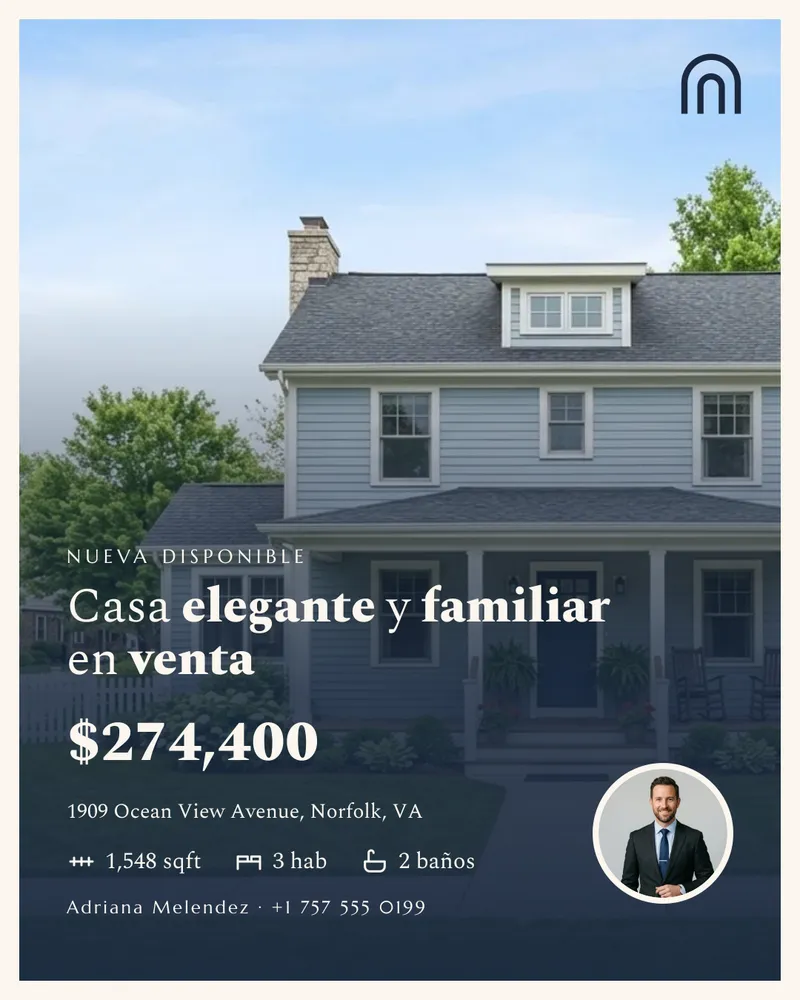
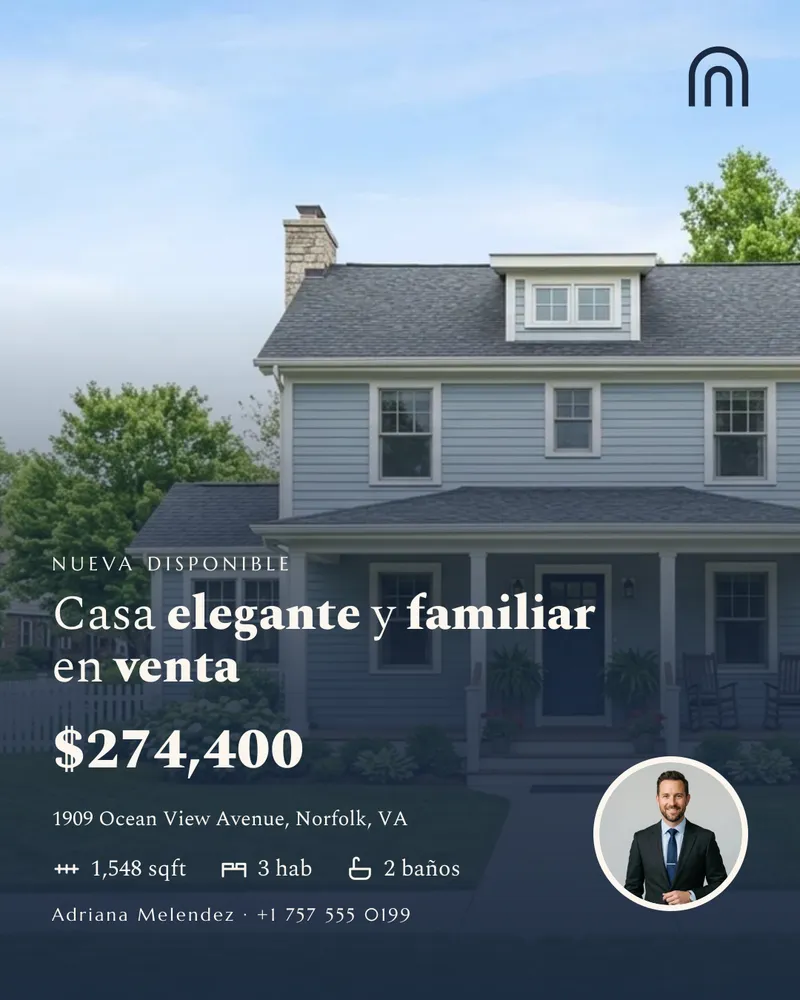
fix(studio): ajustes de color y tamano en los tres disenos
Sobre el color primario va siempre el secundario: el color de texto deja
de entrar como alternativa, que cambiaba el color de las specs sin que
nadie lo pidiera. Foto completa pierde el marco y su secundario pasa al
anillo del agente, un 10% mas grande. En Editorial el logo y la portada
del agente crecen un 15%.

El umbral de contraste baja de 3 a 2: el 3:1 de WCAG se define para
texto de 14-18 pt y aqui son 62-78 px, asi que descartaba pares
legibles como el crema sobre el verde de un tenant real.

diff --git a/src/lib/studio/templates/completa-listing.tsx b/src/lib/studio/templates/completa-listing.tsx
@@ -11,18 +11,19 @@ import type { StudioTemplate, TemplateProps } from './types'
 // colores no cambiaba nada de este diseño salvo el logo.
 //
 //   primario   → el degradado que hace legible el texto
-//   secundario → el marco que enmarca la foto
+//   secundario → el anillo de la portada del agente
 //   texto      → todo el texto
 //   logo       → el logo (lo tiñe template-props)
+//
+// La foto va A SANGRE. Hubo un marco del color secundario y se retiró: este
+// diseño existe para que UNA foto excelente ocupe el lienzo entero, y un borde
+// alrededor le quitaba justamente eso.
 
-/** Ancho del marco. Lo justo para leerse como un borde deliberado y no como un
- *  error de encuadre. */
-const FRAME = 26
+/** La portada del agente, la más grande de los tres diseños: aquí no compite
+ *  con miniaturas ni con un bloque de color. */
+const AGENT_SIZE = 209
 
 function Render(p: TemplateProps) {
-  const W = 1080 - FRAME * 2
-  const H = 1350 - FRAME * 2
-
   // El texto va sobre el degradado, que es del color primario: si el color de
   // texto elegido no se separa de él —y por defecto son el MISMO hex— la pieza
   // saldría en blanco. Se prefiere el rol pedido y se degrada solo si no se lee.
@@ -35,8 +36,8 @@ function Render(p: TemplateProps) {
     }}>
       {p.heroPhoto && (
         // eslint-disable-next-line @next/next/no-img-element -- reason: satori rasteriza a SVG
-        <img src={p.heroPhoto} width={W} height={H} alt=""
-             style={{ position: 'absolute', top: FRAME, left: FRAME, objectFit: 'cover' }} />
+        <img src={p.heroPhoto} width={1080} height={1350} alt=""
+             style={{ position: 'absolute', top: 0, left: 0, objectFit: 'cover' }} />
       )}
 
       {/* Degradado: lo que hace legible el texto sobre una foto que nadie
@@ -45,17 +46,17 @@ function Render(p: TemplateProps) {
           42% el titular caía sobre la parte clara de la fachada y se perdía.
           El color es el primario del tenant, no negro. */}
       <div style={{
-        display: 'flex', position: 'absolute', top: FRAME, left: FRAME, width: W, height: H,
+        display: 'flex', position: 'absolute', top: 0, left: 0, width: 1080, height: 1350,
         backgroundImage: `linear-gradient(to bottom, ${rgba(p.palette.brand, 0)} 28%, ${rgba(p.palette.brand, 0.55)} 52%, ${rgba(p.palette.brand, 0.85)} 70%, ${rgba(p.palette.brand, 0.97)} 100%)`,
       }} />
 
       {p.logo && (
         // eslint-disable-next-line @next/next/no-img-element -- reason: ídem
         <img src={p.logo} width={120} height={120} alt=""
-             style={{ position: 'absolute', top: 60, right: 60, objectFit: 'contain' }} />
+             style={{ position: 'absolute', top: 50, right: 50, objectFit: 'contain' }} />
       )}
 
-      <div style={{ display: 'flex', flexDirection: 'column', position: 'absolute', bottom: 110, left: 90, width: 800 }}>
+      <div style={{ display: 'flex', flexDirection: 'column', position: 'absolute', bottom: 100, left: 70, width: 800 }}>
         <Badge text={p.badge} color={ink} />
         <div style={{ display: 'flex', marginTop: 16 }}>
           <Headline text={p.headline} color={ink} size={66} />
@@ -78,9 +79,9 @@ function Render(p: TemplateProps) {
         )}
       </div>
 
-      {/* El anillo es del color del marco: la portada del agente y el borde de la
-          pieza son la misma pieza de diseño. */}
-      {p.agentPhoto && <AgentBadge src={p.agentPhoto} size={190} ring={p.palette.surface} right={90} bottom={130} />}
+      {/* El anillo es lo que pinta el color secundario en este diseño: es el
+          único borde que queda, y el que separa la cara del agente del fondo. */}
+      {p.agentPhoto && <AgentBadge src={p.agentPhoto} size={AGENT_SIZE} ring={p.palette.surface} right={70} bottom={120} />}
     </div>
   )
 }

diff --git a/src/lib/studio/templates/editorial-listing.tsx b/src/lib/studio/templates/editorial-listing.tsx
@@ -22,10 +22,17 @@ const PHOTO_H  = 560   // a sangre, sin márgenes ni sombra
 const INFO_Y   = 990   // dirección y specs, sobre el fondo claro
 const BAND_H   = 120   // pie de marca
 
+// Logo y portada del agente son las dos marcas de identidad de la pieza y
+// estaban pidiendo presencia: ambos un 15% por encima de lo que medían.
+const LOGO_SIZE  = 120
+const AGENT_SIZE = 230
+
 function Render(p: TemplateProps) {
-  // Lo que va sobre el bloque de color: el secundario, y si no se separa del
-  // primario, el color de texto. Ver readableOn.
-  const onBrand = readableOn(p.palette.brand, p.palette.surface, p.palette.ink)
+  // Etiqueta, titular, cifra, agente y teléfono: SIEMPRE el color secundario.
+  // El color de texto no entra como alternativa —ese rol es para el fondo
+  // claro—; la única salida es blanco o negro, y solo si el secundario no se
+  // lee sobre el primario. Ver readableOn.
+  const onBrand = readableOn(p.palette.brand, p.palette.surface)
 
   return (
     <div style={{ display: 'flex', flexDirection: 'column', width: 1080, height: 1350, backgroundColor: p.palette.surface, position: 'relative' }}>
@@ -73,7 +80,7 @@ function Render(p: TemplateProps) {
 
         {p.logo && (
           // eslint-disable-next-line @next/next/no-img-element -- reason: ídem
-          <img src={p.logo} width={104} height={104} alt="" style={{ objectFit: 'contain' }} />
+          <img src={p.logo} width={LOGO_SIZE} height={LOGO_SIZE} alt="" style={{ objectFit: 'contain' }} />
         )}
       </div>
 
@@ -87,7 +94,7 @@ function Render(p: TemplateProps) {
           foto: es el único punto de la pieza donde sobra espacio a la derecha, y
           la saca del rincón de abajo donde competía con el logo. */}
       {p.agentPhoto && (
-        <AgentBadge src={p.agentPhoto} size={200} ring={p.palette.surface} right={70} bottom={1350 - (PHOTO_Y + 100)} />
+        <AgentBadge src={p.agentPhoto} size={AGENT_SIZE} ring={p.palette.surface} right={70} bottom={1350 - (PHOTO_Y + AGENT_SIZE / 2)} />
       )}
     </div>
   )

diff --git a/tests/studio/palettes.test.ts b/tests/studio/palettes.test.ts
@@ -26,9 +26,29 @@ describe('readableOn', () => {
 
   it('ningún preset deja texto ilegible sobre su color primario', () => {
     for (const preset of [tenantPreset('#00BD1F'), ...PALETTE_PRESETS]) {
-      const color = readableOn(preset.palette.brand, preset.palette.surface, preset.palette.ink)
-      expect(contrastRatio(preset.palette.brand, color)).toBeGreaterThanOrEqual(3)
+      // Misma llamada que hacen Mosaico y Editorial: sobre el color primario va
+      // el secundario, sin el color de texto como alternativa.
+      const color = readableOn(preset.palette.brand, preset.palette.surface)
+      expect(color).toBe(preset.palette.surface)
+      expect(contrastRatio(preset.palette.brand, color)).toBeGreaterThanOrEqual(2)
     }
+  })
+
+  it('conserva el secundario del tenant aunque el contraste sea el justo', () => {
+    // El verde de un tenant real contra el crema da 2,30: legible a 62 px y
+    // por debajo del 3:1 de WCAG. Cambiarlo por blanco sería pisarle el color
+    // que eligió sin que nada estuviera roto.
+    const verde = tenantPreset('#00BD1F').palette
+    expect(contrastRatio(verde.brand, verde.surface)).toBeLessThan(3)
+    expect(readableOn(verde.brand, verde.surface)).toBe(verde.surface)
+  })
+
+  it('sin alternativas cae a blanco o negro, nunca a otro rol', () => {
+    // Es lo que sostiene "el secundario, no el color de texto": si el
+    // secundario no se lee, la salida es un neutro — no se cuela otro rol de la
+    // paleta cambiando el color que el usuario eligió.
+    expect(readableOn('#1B2A41', '#22304A')).toBe('#FFFFFF')
+    expect(readableOn('#FBF6EE', '#F2EDE4')).toBe('#000000')
   })
 })
 

diff --git a/src/lib/studio/templates/mosaico-listing.tsx b/src/lib/studio/templates/mosaico-listing.tsx
@@ -7,10 +7,16 @@ import type { StudioTemplate, TemplateProps } from './types'
 // la cifra. Luce cuando el agente tiene sesión fotográfica completa.
 
 function Render(p: TemplateProps) {
+  // Lo que va sobre las bandas es SIEMPRE el color secundario. El color de
+  // texto no entra como alternativa: es el rol del texto sobre el fondo claro,
+  // y colarlo aquí cambiaba el color de las specs sin que nadie lo pidiera.
+  // La única salida es blanco o negro, y solo si el secundario no se lee sobre
+  // el primario — una paleta que nadie querría publicar.
+  //
   // Las dos bandas son de colores distintos (la de abajo es el primario
-  // oscurecido), así que el color legible se calcula para cada una.
-  const onBrand = readableOn(p.palette.brand, p.palette.surface, p.palette.ink)
-  const onDark  = readableOn(darken(p.palette.brand), p.palette.surface, p.palette.ink)
+  // oscurecido), así que se resuelve para cada una.
+  const onBrand = readableOn(p.palette.brand, p.palette.surface)
+  const onDark  = readableOn(darken(p.palette.brand), p.palette.surface)
 
   return (
     <div style={{ display: 'flex', flexDirection: 'column', width: 1080, height: 1350, backgroundColor: p.palette.surface, position: 'relative' }}>

diff --git a/src/lib/studio/palettes.ts b/src/lib/studio/palettes.ts
@@ -129,9 +129,20 @@ export function contrastRatio(a: string, b: string): number {
   return (Math.max(la, lb) + 0.05) / (Math.min(la, lb) + 0.05)
 }
 
-/** Por debajo de esto el texto deja de leerse. 3:1 es el mínimo de WCAG para
- *  texto grande, que es todo lo que estos diseños ponen sobre un color. */
-const MIN_CONTRAST = 3
+/**
+ * Por debajo de esto el texto deja de leerse.
+ *
+ * NO es el 3:1 de WCAG: ese mínimo se define para texto de 14–18 pt, y lo que
+ * estos diseños ponen sobre un color son 62–78 px sobre un lienzo de 1080. A
+ * ese tamaño, 3:1 descarta pares perfectamente legibles — el crema sobre el
+ * verde de un tenant real da 2,30 — y descartarlos significa cambiarle el color
+ * que eligió por un blanco que no pidió.
+ *
+ * El fallo que esta guarda existe para evitar no es el contraste justo, es el
+ * contraste NULO: dos roles con el mismo hex, que es lo que trae la paleta por
+ * defecto (primario y color de texto son el mismo navy) y da 1,00.
+ */
+const MIN_CONTRAST = 2
 
 /**
  * El color que DE VERDAD se lee sobre `bg`: el preferido si contrasta, y si no
